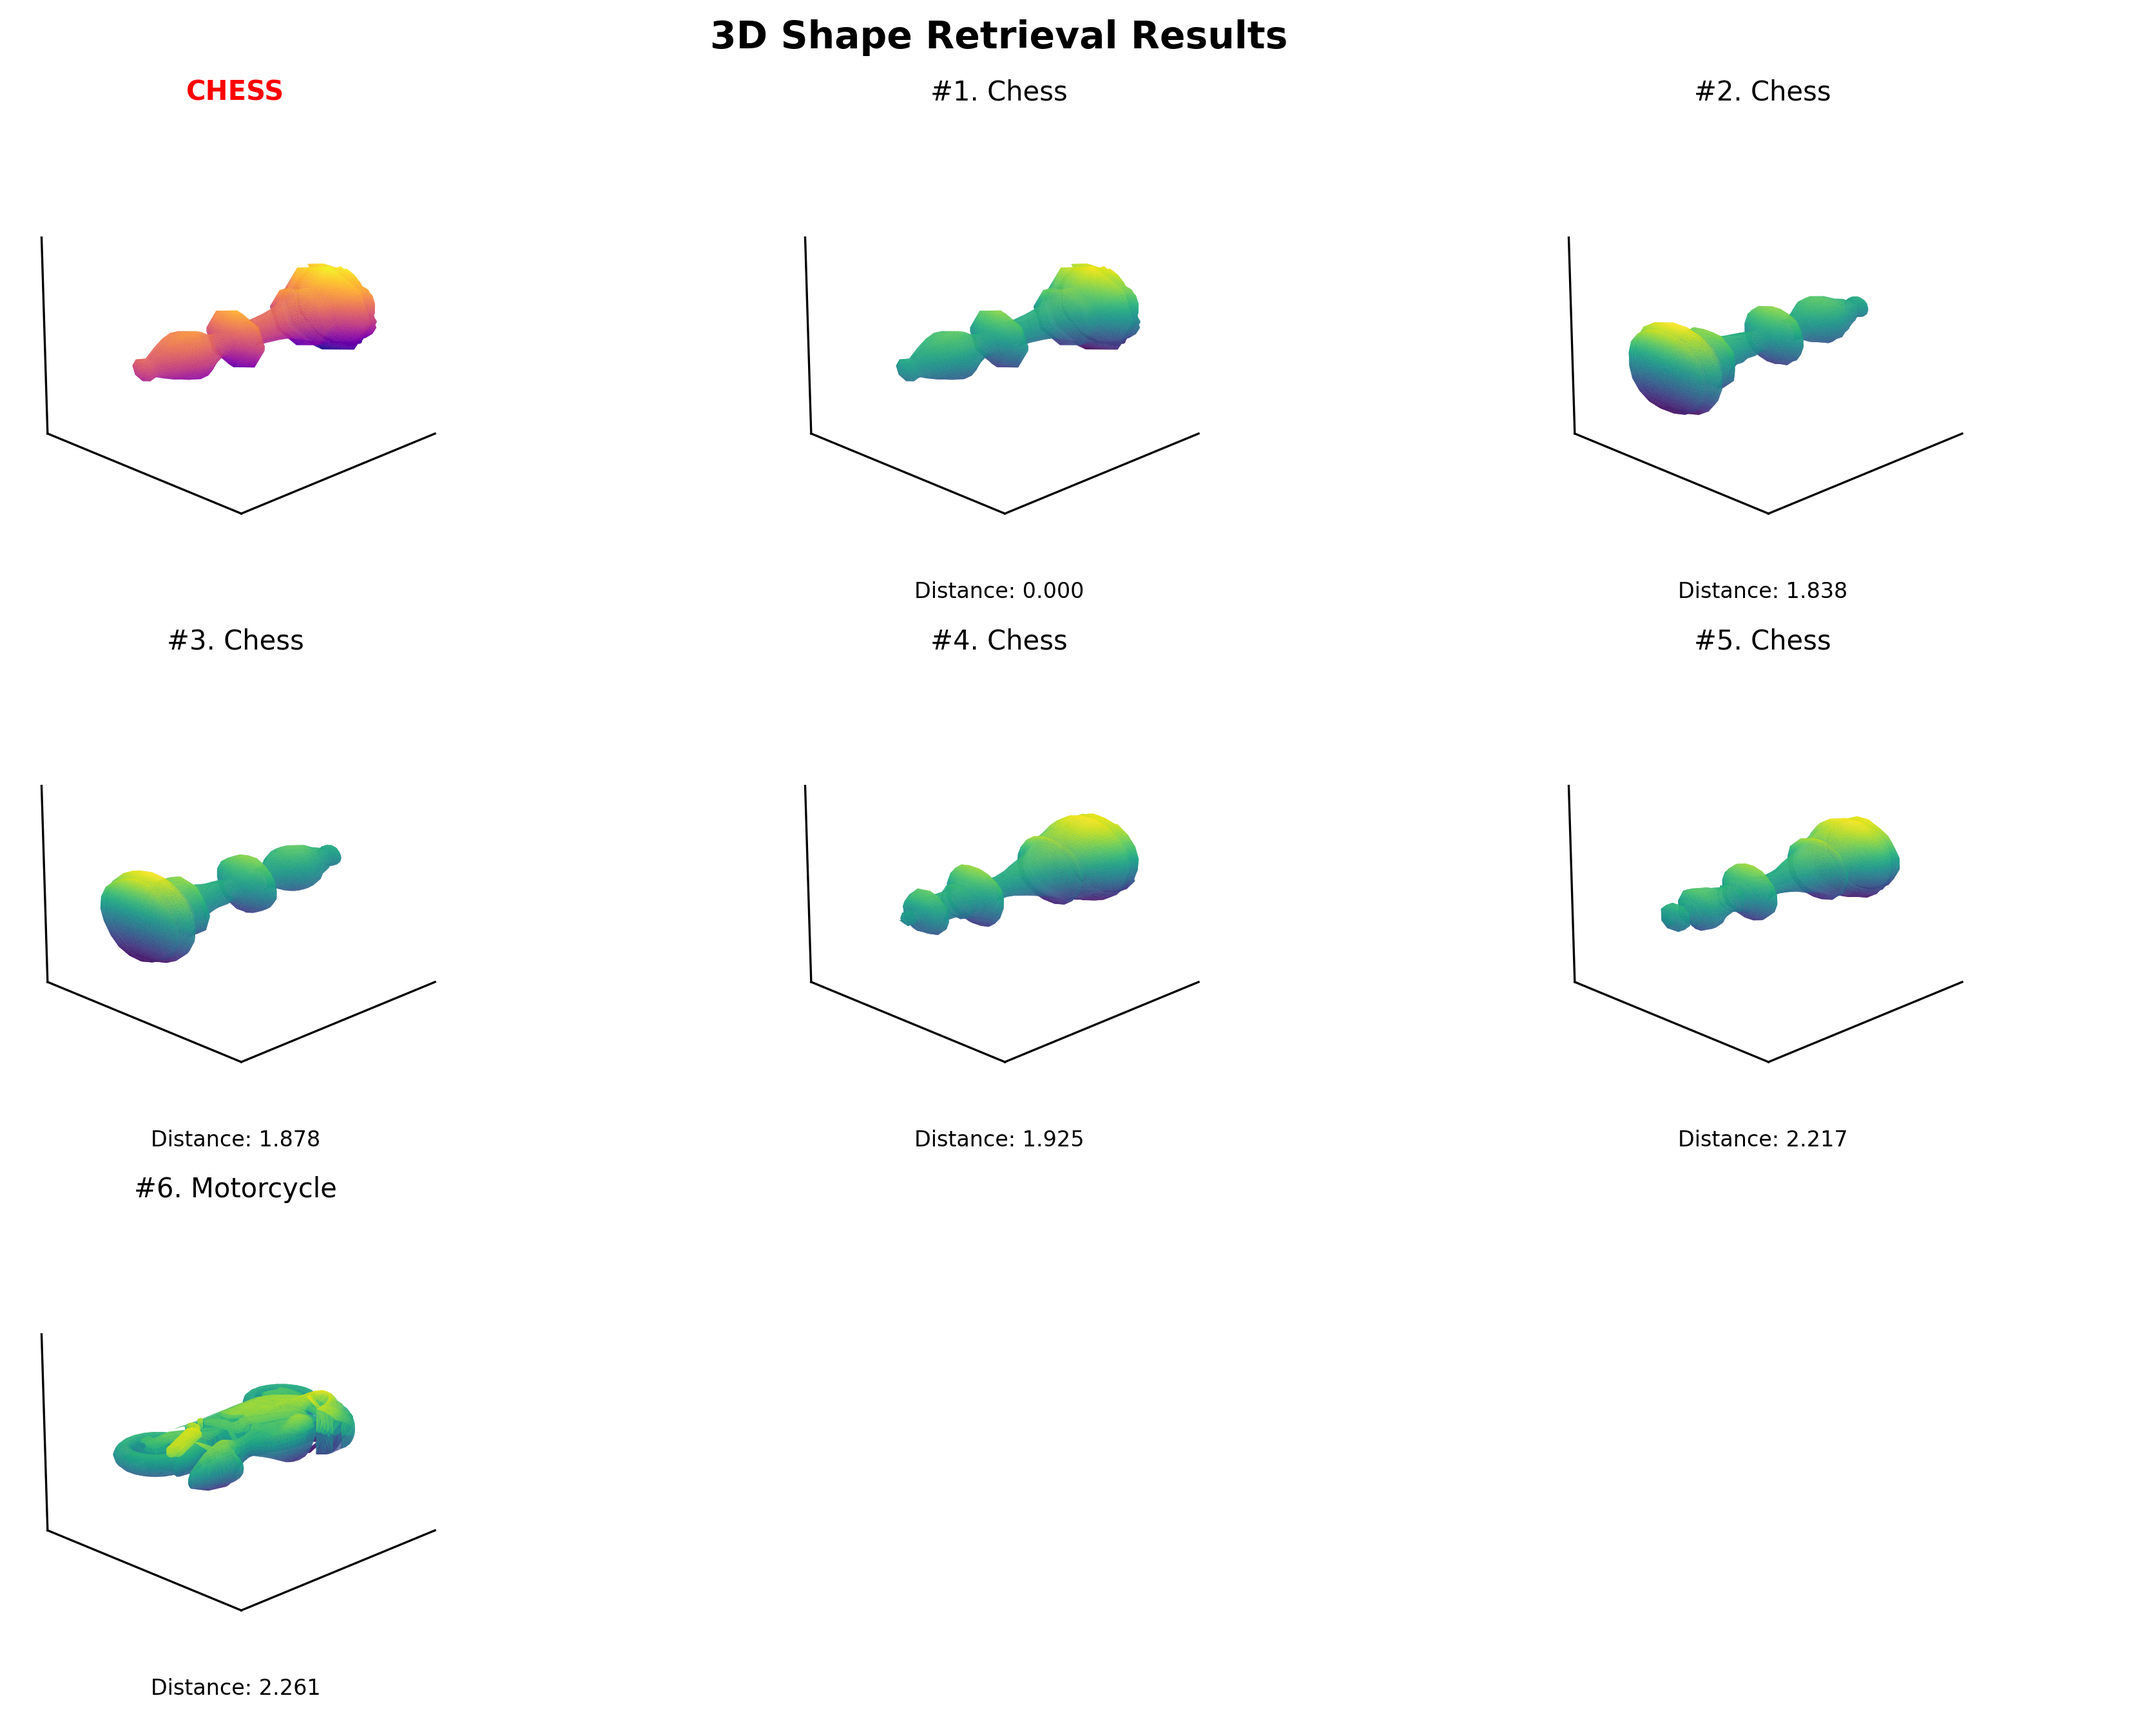
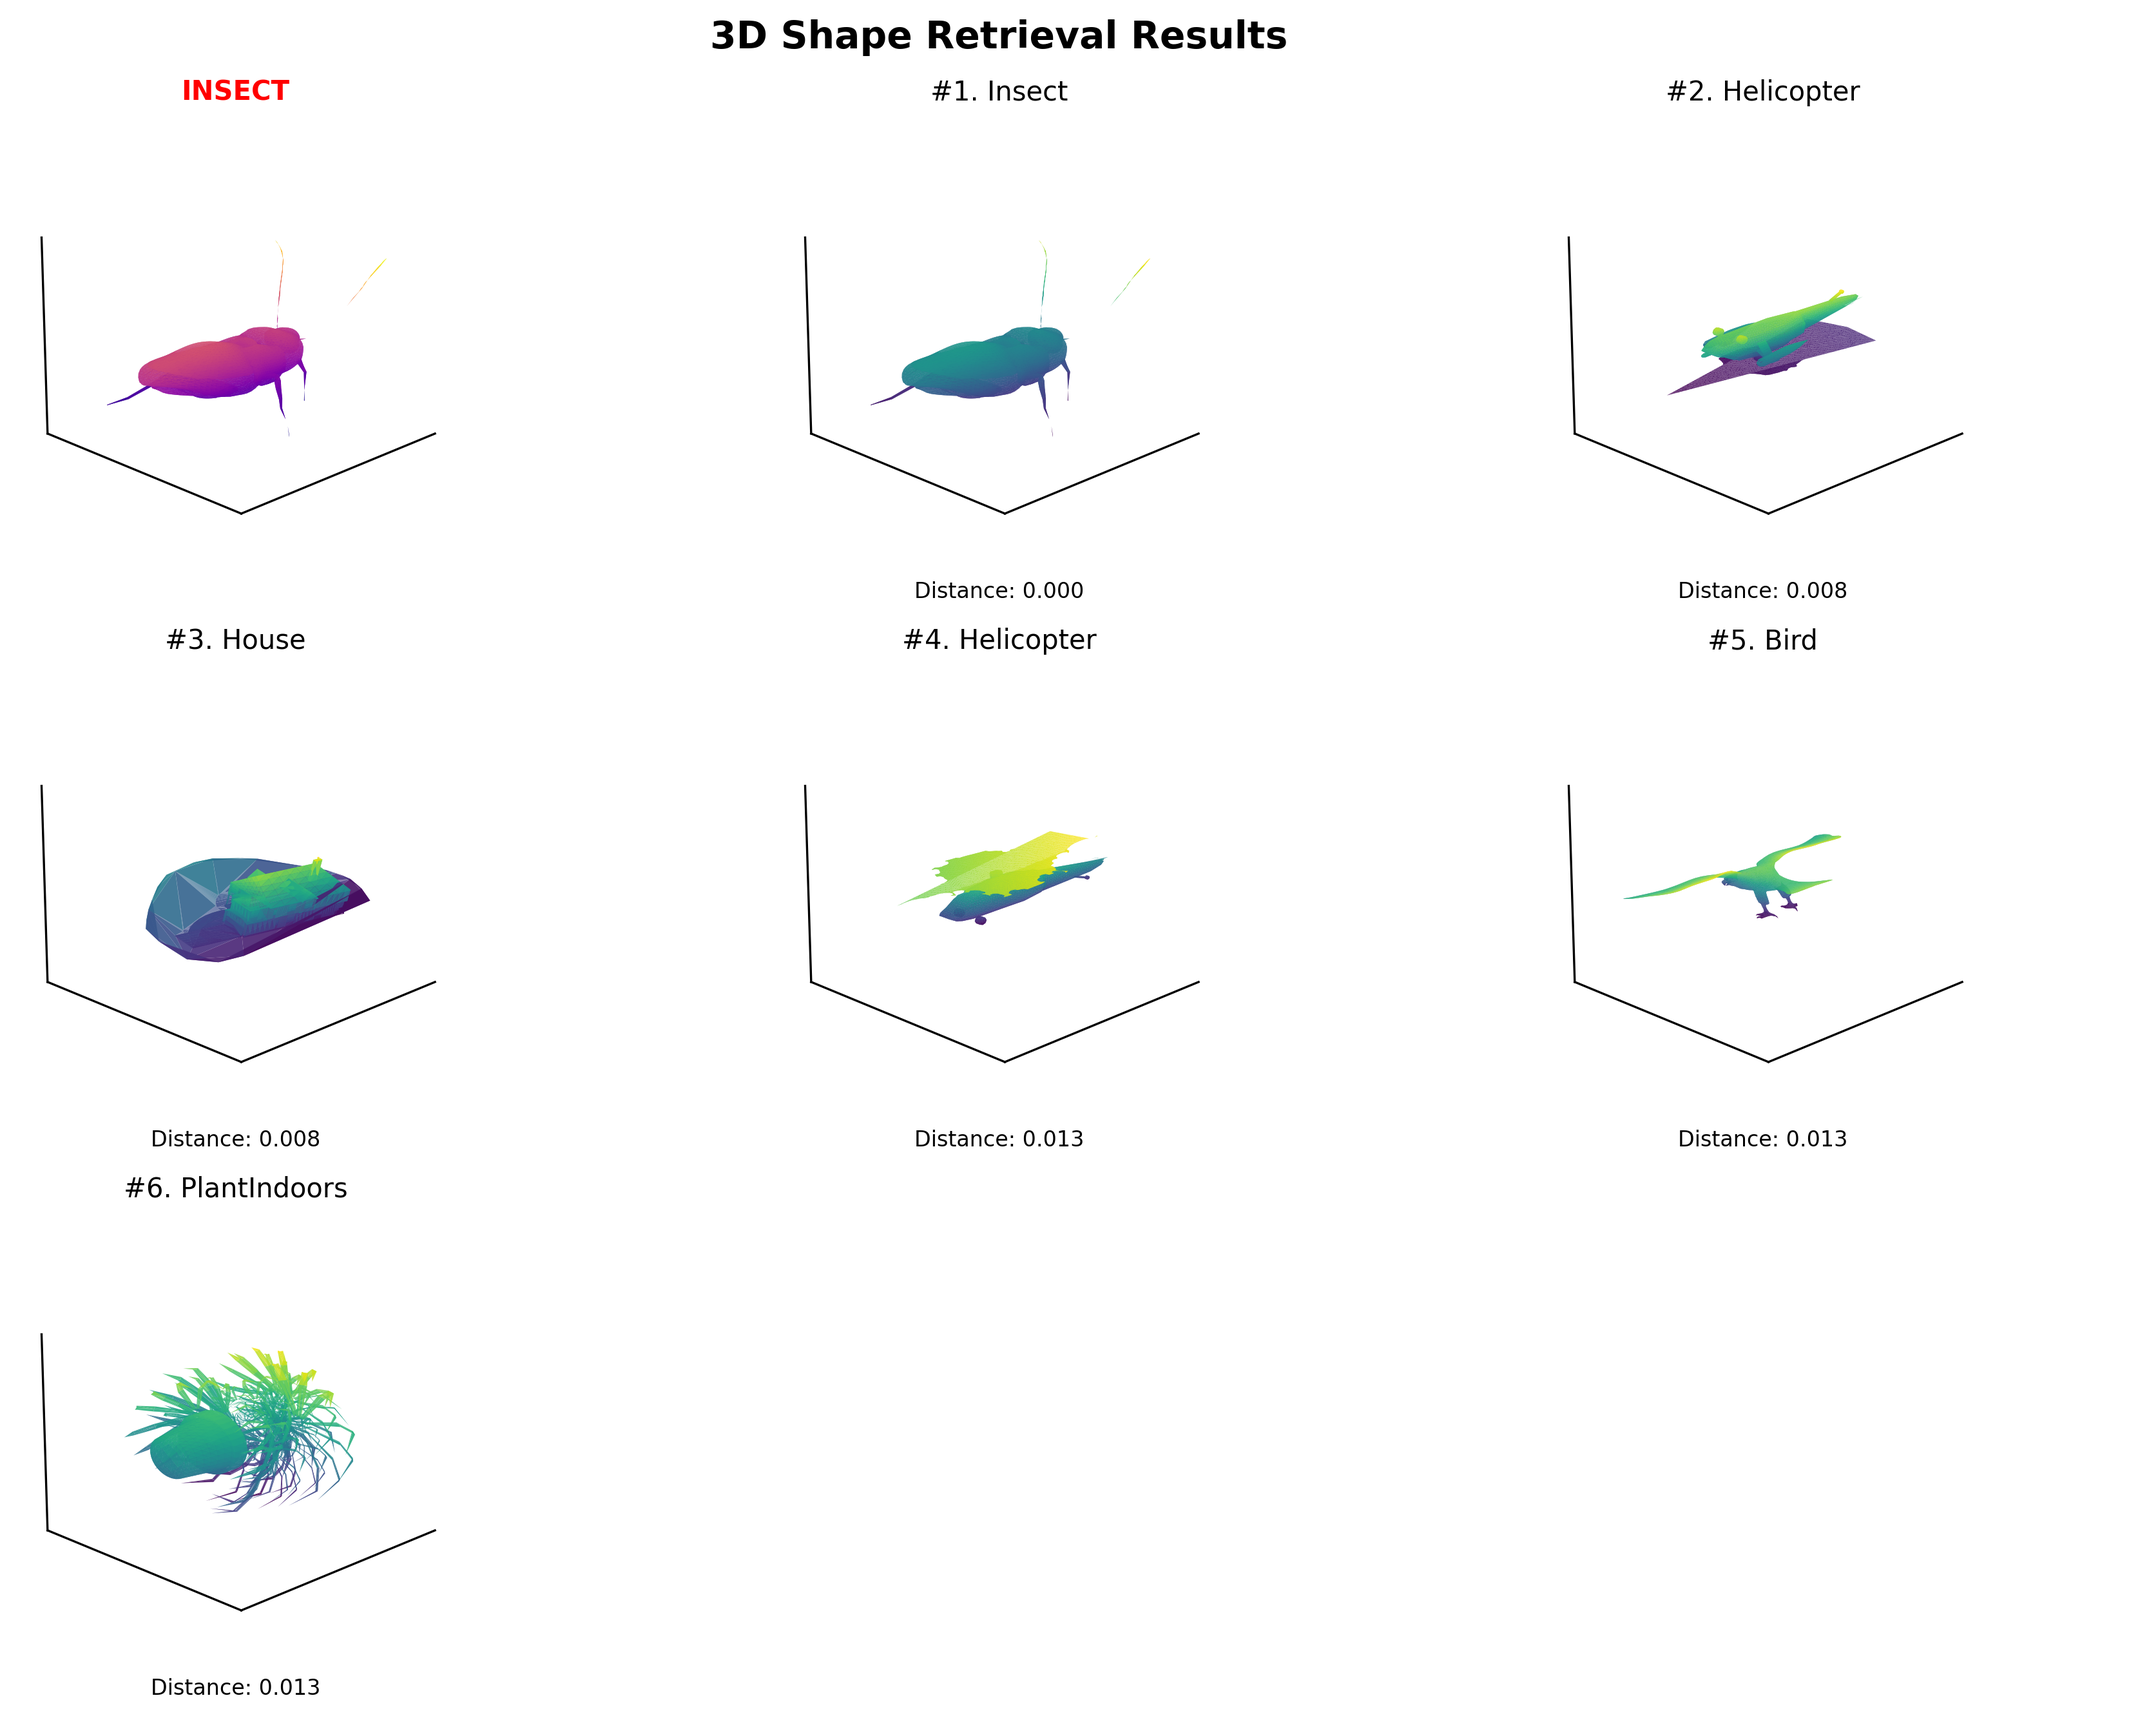
small fixes

diff --git a/knn_engine.py b/knn_engine.py
@@ -61,7 +61,7 @@ class KNNEngine:
             print(f"❌ Error loading processed features: {e}")
             return False
     
-    def build_index(self, n_neighbors=50, metric='euclidean', algorithm='auto'):
+    def build_index(self, n_neighbors=50, metric='euclidean', algorithm='auto', use_step4_normalization=False):
         """
         Build KNN index for fast similarity search
         
@@ -69,6 +69,7 @@ class KNNEngine:
             n_neighbors: Maximum number of neighbors to pre-compute
             metric: Distance metric ('euclidean', 'cosine', 'manhattan', 'chebyshev')
             algorithm: Algorithm for neighbor search ('auto', 'ball_tree', 'kd_tree', 'brute')
+            use_step4_normalization: Use same normalization as Step 4 for fair comparison
         """
         if self.X_features is None:
             print("❌ Please load processed features first")
@@ -78,32 +79,64 @@ class KNNEngine:
             print(f"🔄 Building KNN index with {metric} distance...")
             start_time = time.time()
             
+            # CHECK IF FEATURES ARE ALREADY NORMALIZED
+            feature_range = self.X_features.max() - self.X_features.min()
+            feature_mean = abs(self.X_features.mean())
+            
+            print(f"📊 Feature statistics:")
+            print(f"   Range: {feature_range:.3f}")
+            print(f"   Mean: {feature_mean:.3f}")
+            print(f"   Min: {self.X_features.min():.3f}")
+            print(f"   Max: {self.X_features.max():.3f}")
+            
+            # APPLY STEP 4 STYLE NORMALIZATION ONLY IF REQUESTED
+            if use_step4_normalization:
+                print("🔧 Applying Step 4 z-score normalization...")
+                
+                # Z-score standardization (same as Step 4)
+                means = np.mean(self.X_features, axis=0)
+                stds = np.std(self.X_features, axis=0)
+                stds[stds == 0] = 1  # Avoid division by zero
+                
+                # Apply standardization
+                self.X_features_normalized = (self.X_features - means) / stds
+                print(f"   Z-score normalized range: [{self.X_features_normalized.min():.3f}, {self.X_features_normalized.max():.3f}]")
+                
+                # Use normalized features for KNN
+                features_for_knn = self.X_features_normalized
+            else:
+                # Use original features (already normalized from preparation)
+                print("📏 Using original normalized features from preparation")
+                features_for_knn = self.X_features
+                self.X_features_normalized = self.X_features  # Store reference
+            
             # Initialize NearestNeighbors model
             self.nn_model = NearestNeighbors(
-                n_neighbors=min(n_neighbors, len(self.X_features)),
+                n_neighbors=min(n_neighbors, len(features_for_knn)),
                 metric=metric,
                 algorithm=algorithm,
                 n_jobs=-1  # Use all CPU cores
             )
             
             # Fit the model
-            self.nn_model.fit(self.X_features)
+            self.nn_model.fit(features_for_knn)
             
             build_time = time.time() - start_time
             self.is_fitted = True
             
             print(f"✅ KNN index built successfully!")
             print(f"   ⏱  Build time: {build_time:.2f} seconds")
-            print(f"   📊 Index size: {len(self.X_features)} shapes")
+            print(f"   📊 Index size: {len(features_for_knn)} shapes")
             print(f"   🎯 Distance metric: {metric}")
             print(f"   🔧 Algorithm: {algorithm}")
+            print(f"   📏 Normalization: {'Step 4 z-score' if use_step4_normalization else 'Original preparation'}")
             
             return True
             
         except Exception as e:
             print(f"❌ Error building KNN index: {e}")
             return False
-    
+
     def query_knn(self, query_shape_index, k=10):
         """
         Perform K-nearest neighbors search
@@ -120,8 +153,11 @@ class KNNEngine:
             return None
         
         try:
-            # Get query features
-            query_vector = self.X_features[query_shape_index].reshape(1, -1)
+            # Use the same normalized features that were used for building the index
+            if hasattr(self, 'X_features_normalized'):
+                query_vector = self.X_features_normalized[query_shape_index].reshape(1, -1)
+            else:
+                query_vector = self.X_features[query_shape_index].reshape(1, -1)
             
             # Perform KNN search
             start_time = time.time()
@@ -154,8 +190,11 @@ class KNNEngine:
             return None
         
         try:
-            # Get query features
-            query_vector = self.X_features[query_shape_index].reshape(1, -1)
+            # FIX: Use the same normalized features that were used for building the index
+            if hasattr(self, 'X_features_normalized'):
+                query_vector = self.X_features_normalized[query_shape_index].reshape(1, -1)
+            else:
+                query_vector = self.X_features[query_shape_index].reshape(1, -1)
             
             # Perform range search
             start_time = time.time()

diff --git a/shape_retrieval_gui.py b/shape_retrieval_gui.py
@@ -1039,7 +1039,8 @@ diameter: {row.get('diameter', 'N/A'):.3f}
                 self.status_label.config(text="❌ Failed to load KNN features", fg="red")
                 return False
             
-            if not self.knn_engine.build_index(n_neighbors=50, metric='euclidean'):
+            # BUILD INDEX WITHOUT DOUBLE NORMALIZATION
+            if not self.knn_engine.build_index(n_neighbors=50, metric='euclidean', use_step4_normalization=False):
                 self.status_label.config(text="❌ Failed to build KNN index", fg="red")
                 return False
             
@@ -1050,7 +1051,7 @@ diameter: {row.get('diameter', 'N/A'):.3f}
                 return False
             
             self.step5_initialized = True
-            self.performance_label.config(text="✅ Step 5 engines ready - KNN index built with 2006 shapes")
+            self.performance_label.config(text="✅ Step 5 engines ready - KNN index built with original normalization")
             return True
             
         except Exception as e:
@@ -1281,9 +1282,13 @@ Currently viewing: {self.mesh_var.get() if self.mesh_var.get() != "Select mesh..
             return
         
         try:
+            # SET DETERMINISTIC BEHAVIOR
+            np.random.seed(42)  # Fixed seed for consistency
+            
             self.status_label.config(text="🔄 Comparing Step 4 vs Step 5 methods...", fg="blue")
             
             query_filename = self.mesh_var.get()
+            print(f"🎯 Deterministic comparison for: {query_filename}")
             
             # Step 4: Compute using your custom distance (advanced_combined)
             old_distance_var = self.distance_var.get()
@@ -1294,8 +1299,14 @@ Currently viewing: {self.mesh_var.get() if self.mesh_var.get() != "Select mesh..
             step4_time = time.time() - step4_start
             step4_results = self.current_results.copy() if self.current_results else []
             
-            # Step 5: Compute using KNN
+            # Step 5: Compute using KNN WITH STEP 4 NORMALIZATION
             if not self.initialize_step5_engines():
+                return
+            
+            # REBUILD KNN INDEX WITH STEP 4 NORMALIZATION
+            print("🔧 Rebuilding KNN index with Step 4 normalization...")
+            if not self.knn_engine.build_index(n_neighbors=50, metric='euclidean', use_step4_normalization=True):
+                messagebox.showerror("Error", "Failed to rebuild KNN index!")
                 return
             
             # Find query index
@@ -1323,6 +1334,12 @@ Currently viewing: {self.mesh_var.get() if self.mesh_var.get() != "Select mesh..
             speedup = step4_time / step5_time if step5_time > 0 else float('inf')
             self.performance_label.config(text=f"⚡ Speedup: {speedup:.1f}x faster (Step 4: {step4_time:.3f}s vs Step 5: {step5_time:.4f}s)")
             
+            # ADD DEBUG INFO
+            print(f"🔍 Debug Info:")
+            print(f"  Step 4 distance range: {min([r['distance'] for r in step4_results]):.4f} - {max([r['distance'] for r in step4_results]):.4f}")
+            if len(knn_results_df) > 0:
+                print(f"  Step 5 distance range: {knn_results_df['distance'].min():.4f} - {knn_results_df['distance'].max():.4f}")
+        
         except Exception as e:
             messagebox.showerror("Error", f"Method comparison failed:\n{str(e)}")
             self.status_label.config(text="❌ Method comparison failed", fg="red")
